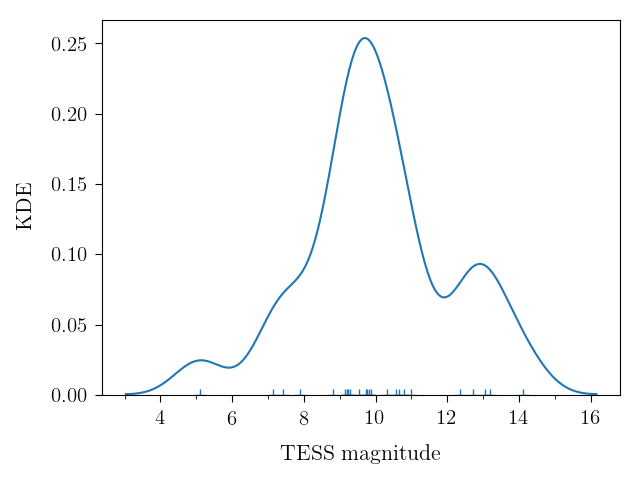
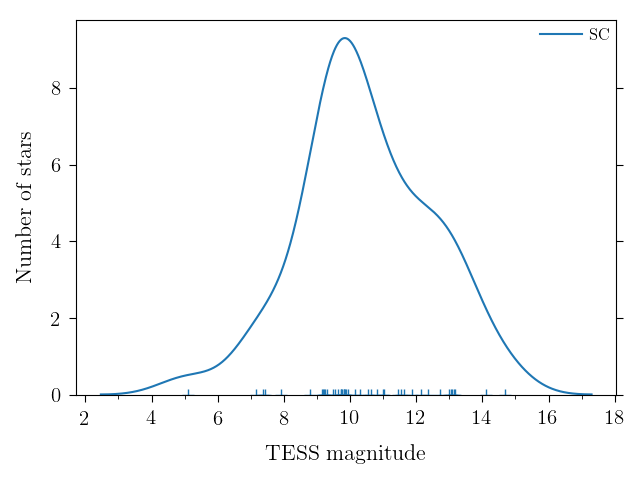
Auto stash before merge of "master" and "origin/master"

diff --git a/release_plots.py b/release_plots.py
@@ -183,6 +183,7 @@ def plot_onehour_noise(data_paths, sector, cad=1800, sysnoise=0):
 	for k, d in enumerate(data_paths):
 #		files = np.append(files, np.array([os.path.join(d, f) for f in os.listdir(d) if f.endswith('.fits')]))
 		files = np.array([os.path.join(d, f) for f in os.listdir(d) if f.endswith('.fits.gz')])
+<<<<<<< Updated upstream
 
 		print(k, d)
 #		if k==0:
@@ -216,12 +217,51 @@ def plot_onehour_noise(data_paths, sector, cad=1800, sysnoise=0):
 				PARAM['DEC'] = hdu[0].header['DEC_OBJ']
 
 
+=======
+		
+		print(k, d)
+#		if k==0:
+#			tot_rms_tmag_vals = np.zeros([len(files), 6])
+			
+		rms_tmag_vals = np.zeros([len(files), 6])
+		for i, f in enumerate(files):
+			hdu = fits.open(f)
+			tmag = hdu[0].header['TESSMAG']
+			flux = hdu[1].data['FLUX_CORR']
+			
+			rms_tmag_vals[i, 0] = tmag
+			rms_tmag_vals[i, -1] = hdu[0].header['TICID']
+					
+
+			if hdu[1].header.get('NUM_FRM',60)==60:
+				rms, ptp = compute_onehour_rms(flux, 120)
+				rms_tmag_vals[i, 1] = rms
+				rms_tmag_vals[i, 3] = ptp
+				
+#				tot_rms_tmag_vals[i,k+1] = rms
+#				tot_rms_tmag_vals[i,k+1] = np.nanmedian(np.diff(flux))
+			else:
+				rms, ptp = compute_onehour_rms(flux, 1800)
+				rms_tmag_vals[i, 2] = rms
+				rms_tmag_vals[i, 4] = ptp
+
+			
+			# TODO: Update elat+elon based on observing sector?
+			PARAM['RA']=hdu[0].header['RA_OBJ']
+			PARAM['DEC']=hdu[0].header['DEC_OBJ']
+	
+		
+>>>>>>> Stashed changes
 		idx_sc = np.nonzero(rms_tmag_vals[:, 1])
 		idx_lc = np.nonzero(rms_tmag_vals[:, 2])
 
 		rgba_color = scalarMap.to_rgba(k)
+<<<<<<< Updated upstream
 #		rgba_color = cols[k]
 
+=======
+		
+>>>>>>> Stashed changes
 		ax.scatter(rms_tmag_vals[idx_sc, 0], rms_tmag_vals[idx_sc, 1], marker='o', facecolors='None', edgecolor=rgba_color)
 		ax.scatter(rms_tmag_vals[idx_lc, 0], rms_tmag_vals[idx_lc, 2], marker='s', facecolors='None', edgecolor=rgba_color)
 
@@ -233,6 +273,7 @@ def plot_onehour_noise(data_paths, sector, cad=1800, sysnoise=0):
 	mags = np.linspace(3.5, 16.5, 50)
 	vals = np.zeros([len(mags), 4])
 	vals2 = np.zeros([len(mags), 4])
+<<<<<<< Updated upstream
 
 #	print(tot_rms_tmag_vals)
 
@@ -261,25 +302,76 @@ def plot_onehour_noise(data_paths, sector, cad=1800, sysnoise=0):
 	ax2.semilogy(mags, np.sqrt(np.sum(vals2**2, axis=1)), 'k-')
 
 
+=======
+	
+	
+    
+	for i in range(len(mags)):
+		vals[i,:], _ = phot_noise(mags[i], 5775, cad, PARAM, sysnoise=sysnoise, verbose=False)    
+	tot_noise = np.sqrt(np.sum(vals**2, axis=1))
+	
+	
+	noi_vs_mag = INT.UnivariateSpline(mags, tot_noise)
+	idx = (rms_tmag_vals[:, 1]/noi_vs_mag(rms_tmag_vals[:, 0]) < 1)
+	print([int(x) for x in rms_tmag_vals[idx, -1]])
+	print([x for x in rms_tmag_vals[idx, 0]])
+	
+	ax.semilogy(mags, vals[:, 0], 'r-')   
+	ax.semilogy(mags, vals[:, 1], 'g--')   
+	ax.semilogy(mags, vals[:, 2], '-')   
+	ax.semilogy(mags, tot_noise, 'k-')   
+	ax.axhline(y=sysnoise, color='b', ls='--') 
+	
+	
+	for i in range(len(mags)):
+		vals2[i,:], _ = phot_noise(mags[i], 5775, 120, PARAM, sysnoise=sysnoise, verbose=False)    
+	tot_noise2 = np.sqrt(np.sum(vals2**2, axis=1))
+	
+	ax2.semilogy(mags, vals2[:, 0], 'r-')   
+	ax2.semilogy(mags, vals2[:, 1], 'g--')   
+	ax2.semilogy(mags, vals2[:, 2], '-')   
+	ax2.semilogy(mags, tot_noise2, 'k-')   
+	
+	
+>>>>>>> Stashed changes
 	ax.set_xlim([3.5, 16.5])
 	ax.set_ylim([10, 1e5])
 	ax.set_xlabel('TESS magnitude', fontsize=16, labelpad=10)
 	ax.set_ylabel(r'$\rm RMS\,\, (ppm\,\, hr^{-1})$', fontsize=16, labelpad=10)
 	ax.xaxis.set_major_locator(MultipleLocator(2))
 	ax.xaxis.set_minor_locator(MultipleLocator(1))
+<<<<<<< Updated upstream
 	ax.tick_params(direction='out', which='both', pad=5, length=3)
 	ax.tick_params(which='major', pad=6, length=5,labelsize='15')
 
 	###########
 	ax2.set_xlabel('TESS magnitude', fontsize=16, labelpad=10)
 	ax2.set_ylabel('point-to-point MDV (ppm)', fontsize=16, labelpad=10)
+=======
+	ax.tick_params(direction='out', which='both', pad=5, length=3) 
+	ax.tick_params(which='major', pad=6, length=5,labelsize='15') 
+	
+	ax.yaxis.set_ticks_position('both')
+
+	###########
+	ax2.set_xlabel('TESS magnitude', fontsize=16, labelpad=10)
+	ax2.set_ylabel(r'$\rm point-to-point\,\, MDV\,\, (ppm)$', fontsize=16, labelpad=10)
+	
+>>>>>>> Stashed changes
 	ax2.set_xlim([3.5, 16.5])
 	ax2.set_yscale("log", nonposy='clip')
 	ax2.xaxis.set_major_locator(MultipleLocator(2))
 	ax2.xaxis.set_minor_locator(MultipleLocator(1))
+<<<<<<< Updated upstream
 	ax2.tick_params(direction='out', which='both', pad=5, length=3)
 	ax2.tick_params(which='major', pad=6, length=5,labelsize='15')
 
+=======
+	ax2.tick_params(direction='out', which='both', pad=5, length=3) 
+	ax2.tick_params(which='major', pad=6, length=5,labelsize='15') 
+	
+	ax2.yaxis.set_ticks_position('both')
+>>>>>>> Stashed changes
 
 #	plt.tight_layout()
 
@@ -300,10 +392,16 @@ def plot_pixinaperture(data_path, sector, cad=1800, sysnoise=0):
 	fig = plt.figure()
 	ax = fig.add_subplot(111)
 
+<<<<<<< Updated upstream
 
 	# Add data values
 	files = np.array([os.path.join(data_path, f) for f in os.listdir(data_path) if f.endswith('.fits.gz')])
 
+=======
+	# Add data values	
+	files = np.array([os.path.join(data_path, f) for f in os.listdir(data_path) if f.endswith('.fits.gz')])
+	
+>>>>>>> Stashed changes
 	ap_tmag_vals = np.zeros([len(files), 2])
 	for i, f in enumerate(files):
 		hdu = fits.open(f)
@@ -314,8 +412,16 @@ def plot_pixinaperture(data_path, sector, cad=1800, sysnoise=0):
 #		print(in_aperture)
 		ap_tmag_vals[i, 0] = tmag
 		ap_tmag_vals[i, 1] = np.sum(in_aperture)
+<<<<<<< Updated upstream
 
 
+=======
+		
+		if np.sum(in_aperture)==15:
+			print(hdu[0].header['TICID'])
+		
+	
+>>>>>>> Stashed changes
 	# Colour by distance from camera centre
 	ax.scatter(ap_tmag_vals[:, 0], ap_tmag_vals[:, 1], marker='o', facecolors='None', color='k')
 
@@ -334,8 +440,16 @@ def plot_pixinaperture(data_path, sector, cad=1800, sysnoise=0):
 	ax.xaxis.set_minor_locator(MultipleLocator(1))
 	ax.yaxis.set_major_locator(MultipleLocator(20))
 	ax.yaxis.set_minor_locator(MultipleLocator(10))
+<<<<<<< Updated upstream
 	ax.tick_params(direction='out', which='both', pad=5, length=3)
 	ax.tick_params(which='major', pad=6, length=5,labelsize='15')
+=======
+	ax.tick_params(direction='out', which='both', pad=5, length=3) 
+	ax.tick_params(which='major', pad=6, length=5,labelsize='15') 
+	
+	ax.yaxis.set_ticks_position('both')
+
+>>>>>>> Stashed changes
 	plt.tight_layout()
 
 	save_path = 'plots/sector%02d/' %sector
@@ -352,21 +466,30 @@ def plot_pixinaperture(data_path, sector, cad=1800, sysnoise=0):
 
 def plot_mag_dist(data_path, sector):
 
+<<<<<<< Updated upstream
 
 	# Add data values
 	files = np.array([os.path.join(data_path, f) for f in os.listdir(data_path) if f.endswith('.fits.gz')])
 
+=======
+	# Add data values	
+	files = np.array([os.path.join(data_path, f) for f in os.listdir(data_path) if f.endswith('.fits.gz')])
+	
+>>>>>>> Stashed changes
 	tmag_vals_sc = np.array([])
 	tmag_vals_lc = np.array([])
 	for i, f in enumerate(files):
 		hdu = fits.open(f)
 		tmag = hdu[0].header['TESSMAG']
+<<<<<<< Updated upstream
 		time = hdu[1].data['TIME']
 
 		dt = np.nanmedian(np.diff(time))
 
+=======
+>>>>>>> Stashed changes
 
-		if int(round(dt))==120:
+		if hdu[1].header.get('NUM_FRM',60)==60:
 			tmag_vals_sc = np.append(tmag_vals_sc, tmag)
 		else:
 			tmag_vals_lc = np.append(tmag_vals_lc, tmag)
@@ -378,6 +501,7 @@ def plot_mag_dist(data_path, sector):
 	if len(tmag_vals_lc) > 0:
 		kde_lc = KDE(tmag_vals_lc)
 		kde_lc.fit(gridsize=1000)
+<<<<<<< Updated upstream
 		ax.fill_between(kde_lc.support, 0, kde_lc.density*len(tmag_vals_lc), color='b', alpha=0.3, label='1800s')
 		ax.scatter(tmag_vals_lc, np.zeros_like(tmag_vals_lc), lw=1, marker='|', c='k', s=80)
 
@@ -392,21 +516,54 @@ def plot_mag_dist(data_path, sector):
 	kde_all.fit(gridsize=1000)
 	ax.plot(kde_all.support, kde_all.density*len(tmag_all), 'k-', lw=1.5, label='All')
 
+=======
+		ax.plot(kde_lc.support, kde_lc.density*len(tmag_vals_lc), label='LC')
+		ax.scatter(tmag_vals_lc, np.zeros_like(tmag_vals_lc), lw=1, marker='+', s=80)
+	except:
+		pass
+	
+	
+	try:
+		kde_sc = KDE(tmag_vals_sc)
+		kde_sc.fit(gridsize=1000)
+		ax.plot(kde_sc.support, kde_sc.density*len(tmag_vals_sc), label='SC')
+		ax.scatter(tmag_vals_sc, np.zeros_like(tmag_vals_sc), lw=1, marker='+', s=80)
+	except:
+		pass		
+	
+>>>>>>> Stashed changes
 #	ax.set_xlim([3.5, 16.5])
 	ax.set_ylim(ymin=0)
 
 	ax.set_xlabel('TESS magnitude', fontsize=16, labelpad=10)
 	ax.set_ylabel('Number of stars', fontsize=16, labelpad=10)
+<<<<<<< Updated upstream
 
+=======
+	
+>>>>>>> Stashed changes
 	ax.xaxis.set_major_locator(MultipleLocator(2))
 	ax.xaxis.set_minor_locator(MultipleLocator(1))
 	ax.tick_params(direction='out', which='both', pad=5, length=3)
 	ax.tick_params(which='major', pad=6, length=5,labelsize='15')
 	plt.tight_layout()
+<<<<<<< Updated upstream
+=======
+	
+	ax.legend(frameon=False, prop={'size':12} ,loc='upper right', borderaxespad=0,handlelength=2.5, handletextpad=0.4) 
+
+	ax.yaxis.set_ticks_position('both')
+
+>>>>>>> Stashed changes
 
 	save_path = 'plots/sector%02d/' %sector
 	if not os.path.exists(save_path):
 		os.makedirs(save_path)
+<<<<<<< Updated upstream
+=======
+	fig.savefig(os.path.join(save_path, 'magnitudes.png') )
+	
+>>>>>>> Stashed changes
 
 	ax.legend(frameon=False, prop={'size':12} ,loc='upper right', borderaxespad=0,handlelength=2.5, handletextpad=0.4)
 	fig.savefig(os.path.join(save_path, 'magnitudes.png'), bb_inches='tight')
@@ -527,9 +684,24 @@ if __name__ == "__main__":
 #	path0 = '/home/mikkelnl/ownCloud/Documents/Asteroseis/Emil/TESS_alerts/'
 	path0 = r'C:\Users\au195407\Downloads\Ny mappe'
 
+<<<<<<< Updated upstream
 #	data_paths = np.array([path0 + '08', path0 + '09', path0 + '10', path0 + '11', path0 + '12'])
 	#data_paths = np.array([path0 + '10',]
 
 	plot_onehour_noise([path0], cad=1800, sector=1, sysnoise=0)
 	plot_pixinaperture(path0, sector=1)
 	plot_mag_dist(path0, sector=1)
+=======
+#	data_path = '/home/mikkelnl/ownCloud/Documents/Asteroseis/Emil/TESS_alerts/'
+	
+	path0 = '/home/mikkelnl/ownCloud/Documents/Asteroseis/TESS/TDA5/S01_DR00_v01'
+#	data_paths = np.array([path0 + '08', path0 + '09', path0 + '10', path0 + '11', path0 + '12'])
+#	data_paths = np.array([path0 + '10',])
+	
+	
+	plot_onehour_noise(np.array([path0,]), cad = 1800, sector=1, sysnoise=0)	
+	plot_pixinaperture(path0, sector=1)	
+	plot_mag_dist(path0, sector=1)
+	
+	
+>>>>>>> Stashed changes
